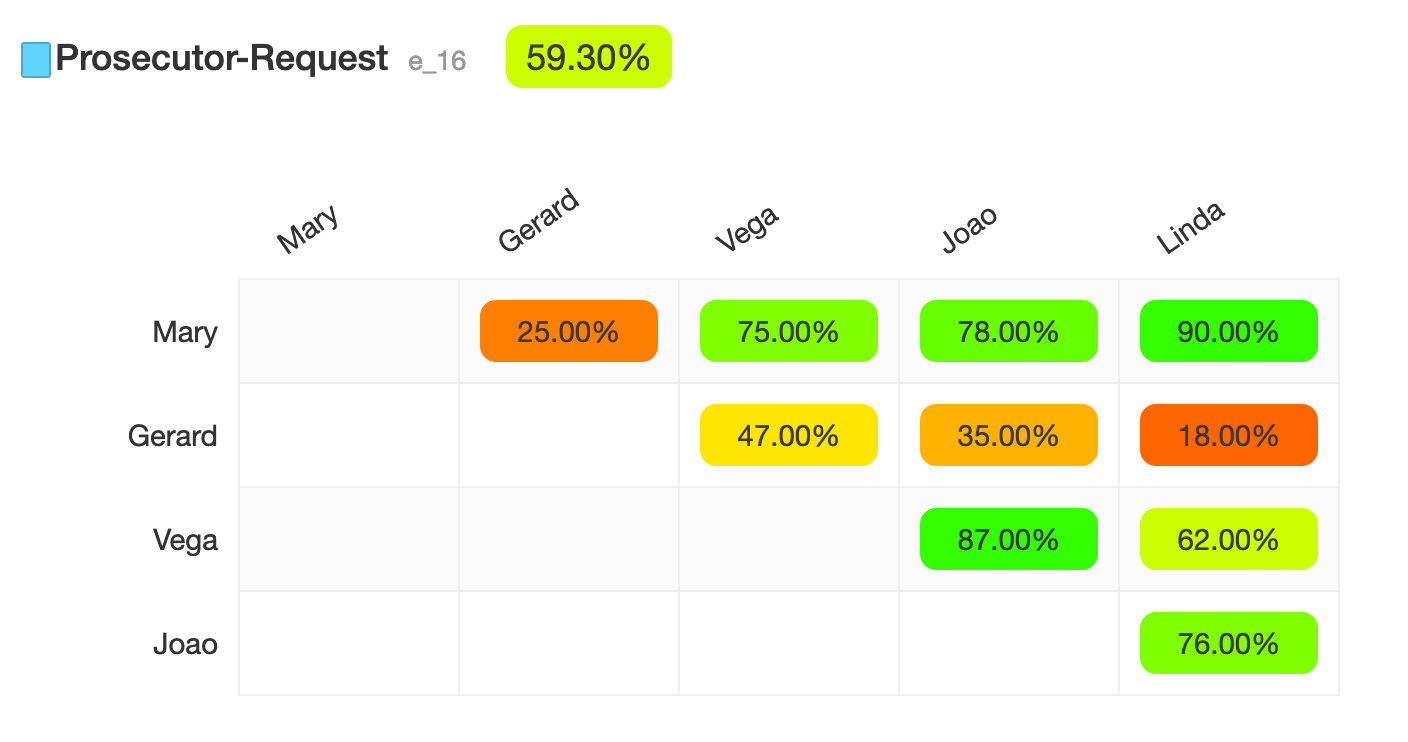
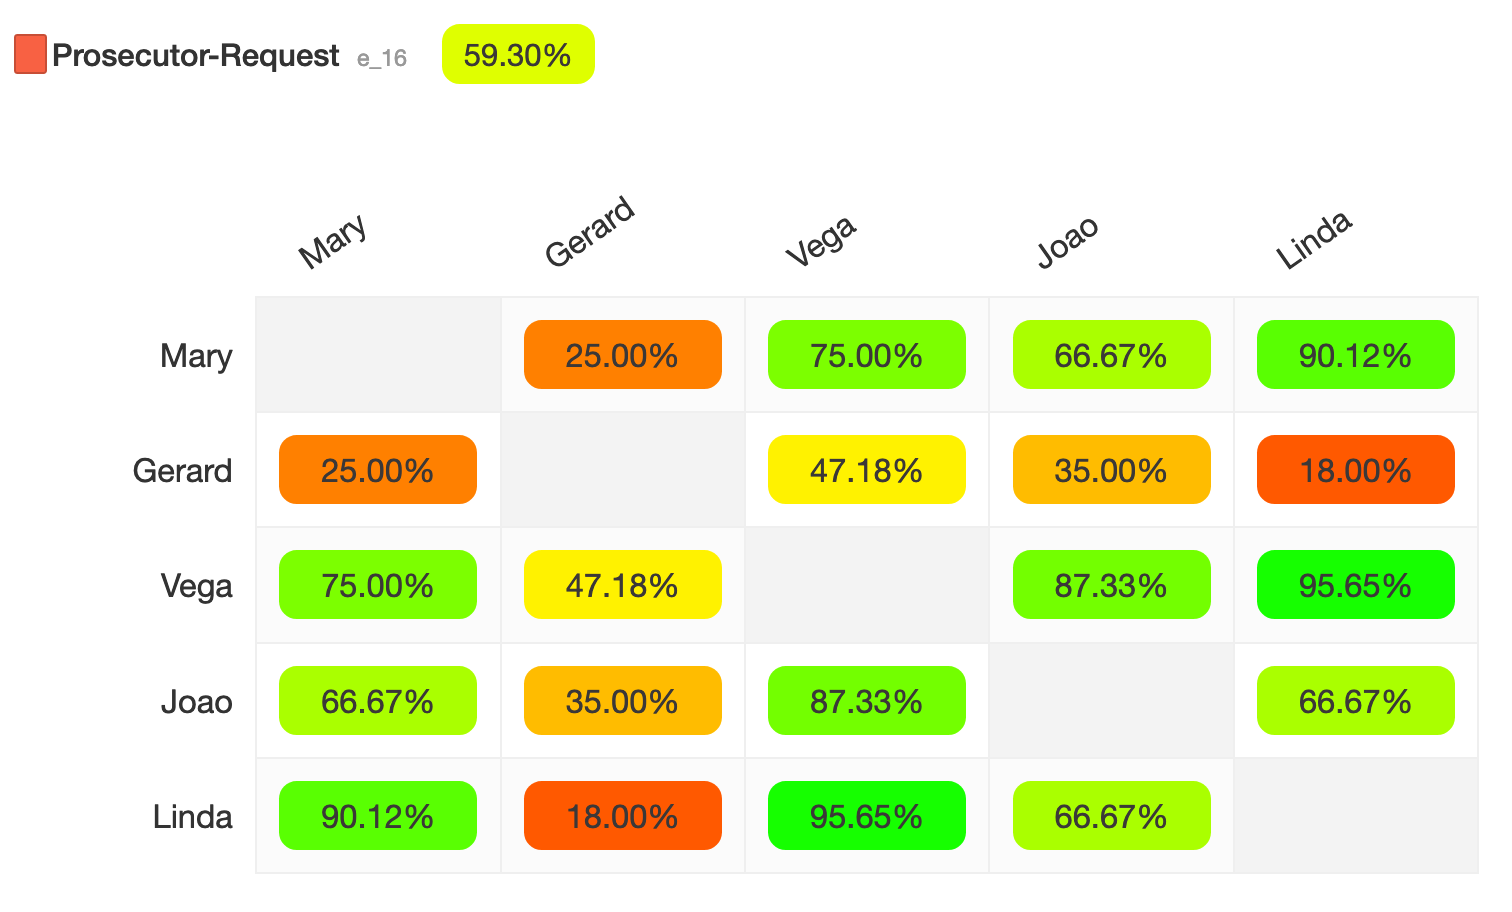
- Update updates page - Remove not relevant info for IAA matrix - Update IAA picture

diff --git a/collaboration.md b/collaboration.md
@@ -221,7 +221,7 @@ id: collaboration
   <h3>IAA (Inter-Annotator Agreement)</h3>
   <p>The <a title="Wikipedia - Inter-rater_reliability" href="https://en.wikipedia.org/wiki/Inter-rater_reliability">Inter-Annotator Agreement (IAA)</a> gauges the quality of your annotation project, that is the degree of consensus among your annotators. If all your annotators make the same annotations independently, it means your guidelines are clear and your annotations are most likely correct. <strong>The higher the IAA, the higher the quality</strong>.</p>
   <p>In tagtog, each annotator can annotate the same piece of text separately. <strong>The percentage agreement is only measured when 2 or more annotators annotate the same text</strong>. These scores are calculated <strong>automatically</strong> in tagtog for you. You can <a title="tagtog - Project's members" href="projects.html#members">add members to your project</a> at <i>Settings > Members</i></p>
-  <p>To go to the IAA results, open your project and click on the <strong>Metrics</strong> section. Results are split into annotation types (entity types, entity labels, document labels, normalizations and relations). Each annotation type is divided into annotation tasks (e.g. Entity types: Entity type 1, Entity type 2; Document labels: document label 1, document label 2, etc.). <strong>For each annotation task, scores are displayed as a matrix</strong>. You can observe that only half of the matrix contains scores to avoid repetition. <strong>Each cell represents the agreement pair for two annotators</strong>, being 100% the maximum level of agreement and 0% the minimum.</p>
+  <p>To go to the IAA results, open your project and click on the <strong>Metrics</strong> section. Results are split into annotation types (entity types, entity labels, document labels, normalizations and relations). Each annotation type is divided into annotation tasks (e.g. Entity types: Entity type 1, Entity type 2; Document labels: document label 1, document label 2, etc.). <strong>For each annotation task, scores are displayed as a matrix</strong>. <strong>Each cell represents the agreement pair for two annotators</strong>, being 100% the maximum level of agreement and 0% the minimum.</p>
   <p>The agreement percentage near the title of each annotation task represents the average agreement for this annotation task.</p>
   {% include image.html caption="<strong>Inter-annotator agreement matrix</strong>. It contains the scores between pairs of users. For example, Vega and Joao agree on the 87% of the cases. Vega and Gerard on the 47%. This visualization provides an overview of the agreement among annotators. It also helps find weak spots. In this example we can see how Gerard is not aligned with the rest of annotators (25%, 47%, 35%, 18%). A training might be required to have him aligned with the guidelines and the rest of the team. On the top left we find the annotation task name, id and the agreement average (59,30%)." name="iaa-matrix.png" %}
 </div>

diff --git a/updates.md b/updates.md
@@ -19,6 +19,7 @@ __
 <ul class="updates">
   <li class="new"><span markdown="1">Now normalizations are added to data model immediately once the user type any value in the normalization box in the annotation menu. In order to add new entries to dictionaries, you should click on the <kbd>+</kbd> button near the normalization box. [More information](webeditor.html#update-dictionary-from-annotation-editor)</span></li>
   <li class="fix"><span markdown="1">For some PDFs, it was not possible to annotate some pages of the files. This was caused due to the usage of some system fonts when there were not embedded fonts in the PDF file. Now it is possible to annotate those pages.</span></li>
+  <li class="new"><span markdown="1">Inter-Annotation Agreement matrix is now fully filled making it symmetric and easier to read.</span></li>
 </ul>
 
 
